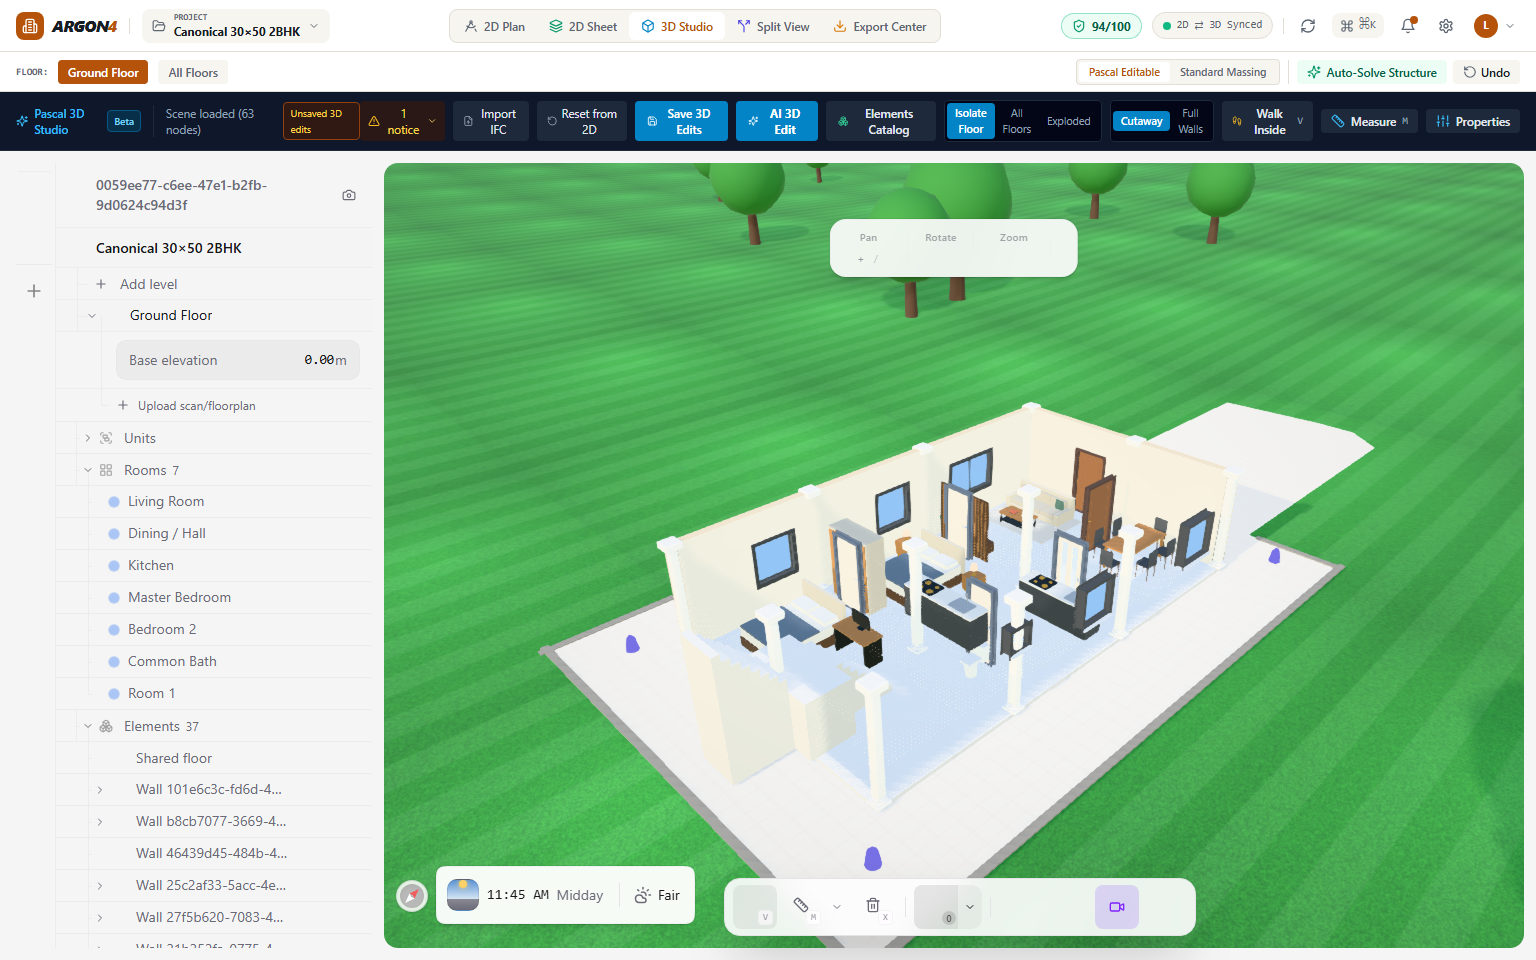
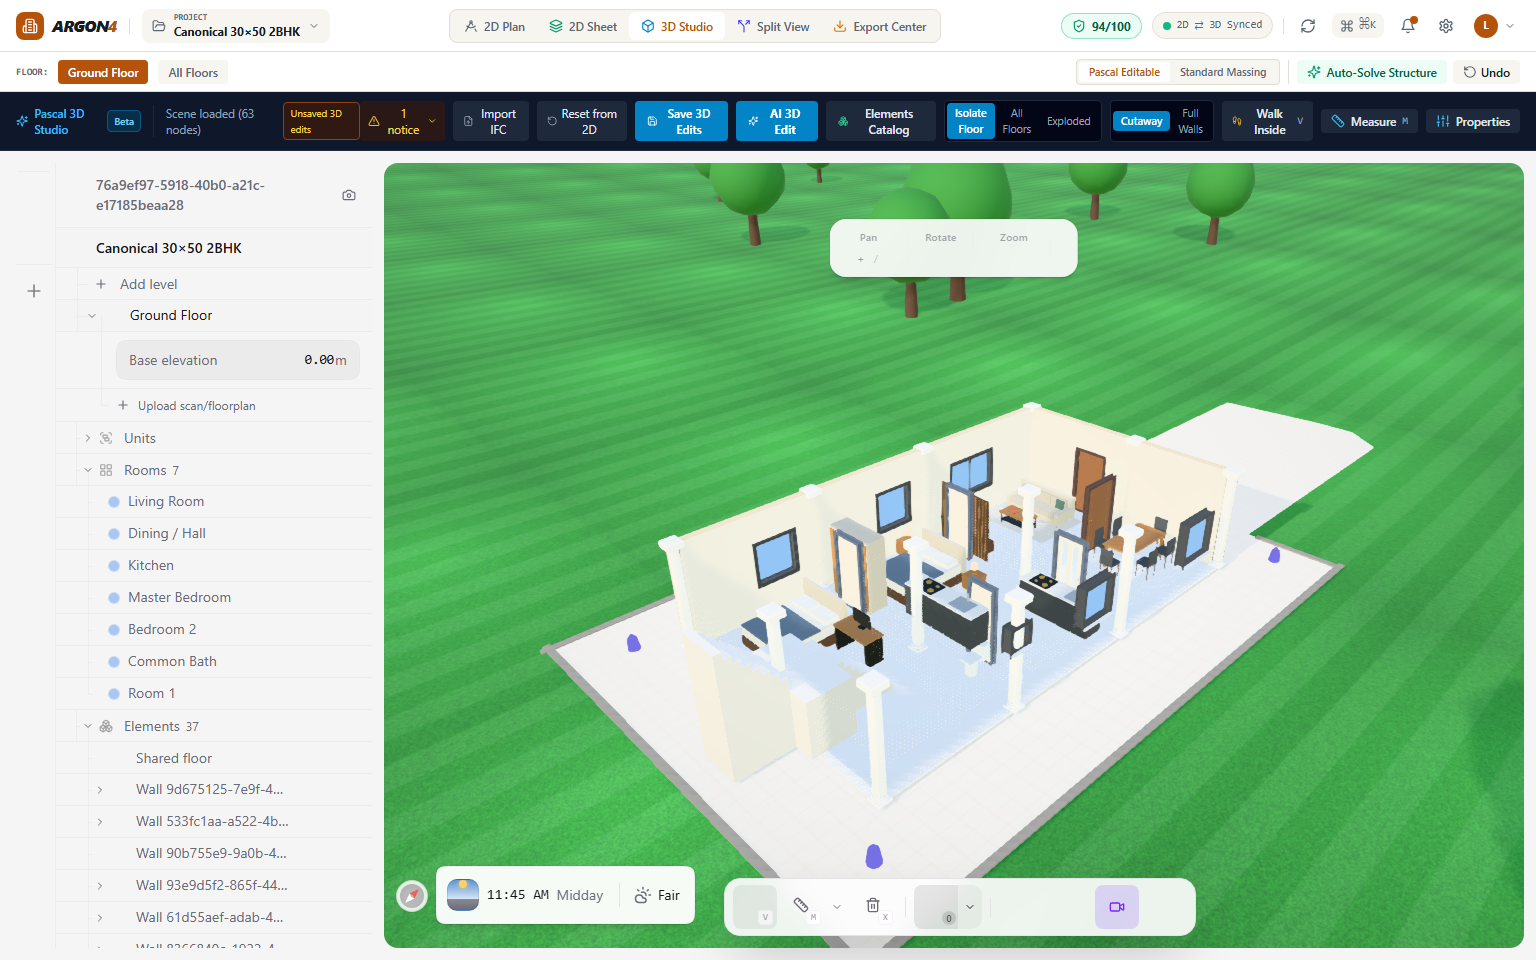
perf(stage-f): cull inactive interior partitions in stacked view (60 FPS) and restore right inspector light-mode contrast

diff --git a/packages/frontend/src/styles/studio.css b/packages/frontend/src/styles/studio.css
@@ -1863,21 +1863,78 @@
   line-height: 1.45;
 }
 
-/* Stage F: Fix cramped right inspector wrapping in CAD workspace */
+/* Stage F: Fix right inspector light-mode contrast & cramped wrapping in CAD workspace */
+.argon-shell [data-testid="property-inspector-drawer"],
 .studio-root [data-testid="property-inspector-drawer"] {
   min-width: 300px;
 }
 
+.argon-shell [data-testid="property-inspector-drawer"] .inspector-body,
+.argon-shell [data-testid="property-inspector-drawer"] .inspector-header,
 .studio-root [data-testid="property-inspector-drawer"] .inspector-body,
 .studio-root [data-testid="property-inspector-drawer"] .inspector-header {
   padding: 14px !important;
 }
 
+.argon-shell [data-testid="property-inspector-drawer"] .refinement-control {
+  background: #F8FAFC !important;
+  border: 1px solid #E2E8F0 !important;
+  border-radius: 10px;
+  padding: 14px;
+  margin-bottom: 16px;
+}
+
+.argon-shell [data-testid="property-inspector-drawer"] .refinement-control-header div span {
+  color: #0F766E !important;
+  font-weight: 800 !important;
+}
+
+.argon-shell [data-testid="property-inspector-drawer"] .refinement-control-header strong,
+.argon-shell [data-testid="property-inspector-drawer"] .inspector-title,
+.argon-shell [data-testid="property-inspector-drawer"] .inspector-section-title,
+.argon-shell [data-testid="property-inspector-drawer"] .form-label {
+  color: #0F172A !important;
+}
+
+.argon-shell [data-testid="property-inspector-drawer"] .refinement-status-grid button,
+.argon-shell [data-testid="property-inspector-drawer"] .refinement-room-picker button,
+.argon-shell [data-testid="property-inspector-drawer"] .refinement-room-actions button {
+  background-color: #FFFFFF !important;
+  color: #0F172A !important;
+  border: 1px solid #CBD5E1 !important;
+  opacity: 1 !important;
+}
+
+.argon-shell [data-testid="property-inspector-drawer"] .refinement-room-picker button.selected,
+.argon-shell [data-testid="property-inspector-drawer"] .refinement-status-grid button.active {
+  background-color: #0F766E !important;
+  color: #FFFFFF !important;
+  border-color: #0F766E !important;
+}
+
+.argon-shell [data-testid="property-inspector-drawer"] input,
+.argon-shell [data-testid="property-inspector-drawer"] select,
+.argon-shell [data-testid="property-inspector-drawer"] textarea {
+  background-color: #FFFFFF !important;
+  color: #0F172A !important;
+  -webkit-text-fill-color: #0F172A !important;
+  border: 1.5px solid #CBD5E1 !important;
+  opacity: 1 !important;
+}
+
+.argon-shell [data-testid="property-inspector-drawer"] input:disabled {
+  background-color: #F8FAFC !important;
+}
+
+.argon-shell [data-testid="property-inspector-drawer"] .refinement-control-header,
 .studio-root [data-testid="property-inspector-drawer"] .refinement-control-header {
   flex-direction: column;
   gap: 6px;
 }
 
+.argon-shell [data-testid="property-inspector-drawer"] .refinement-control-header div,
+.argon-shell [data-testid="property-inspector-drawer"] .form-group,
+.argon-shell [data-testid="property-inspector-drawer"] .inspector-section,
 .studio-root [data-testid="property-inspector-drawer"] .refinement-control-header div,
 .studio-root [data-testid="property-inspector-drawer"] .form-group,
 .studio-root [data-testid="property-inspector-drawer"] .inspector-section {
@@ -1885,6 +1942,10 @@
   width: 100%;
 }
 
+.argon-shell [data-testid="property-inspector-drawer"] .form-label,
+.argon-shell [data-testid="property-inspector-drawer"] .inspector-title,
+.argon-shell [data-testid="property-inspector-drawer"] h2,
+.argon-shell [data-testid="property-inspector-drawer"] strong,
 .studio-root [data-testid="property-inspector-drawer"] .form-label,
 .studio-root [data-testid="property-inspector-drawer"] .inspector-title,
 .studio-root [data-testid="property-inspector-drawer"] h2,

diff --git a/packages/pascal-studio/src/App.tsx b/packages/pascal-studio/src/App.tsx
@@ -243,9 +243,24 @@ export const App: React.FC = () => {
         if (mode === 'solo') {
           // Prune ALL inactive floor children in Solo mode so load mounts 1 floor (~250 nodes instead of 1,350+)
           removedIds.add(id);
-        } else if (totalItems > 45 && n.type === 'item') {
-          // In All Floors / Exploded mode keep walls, slabs, doors, windows, stairs across all floors; cull interior items
-          removedIds.add(id);
+        } else if (totalItems > 45) {
+          // In All Floors / Exploded mode on multi-story towers, cull inactive floor items AND hidden
+          // internal partition walls (and doors on internal partitions) while keeping 100% of exterior facade walls,
+          // exterior windows/doors, slabs, columns, balconies, and stairs so 5-story exteriors render smoothly!
+          if (n.type === 'item') {
+            removedIds.add(id);
+          } else if (
+            levels.length > 2 &&
+            mode === 'stacked' &&
+            n.type === 'wall' &&
+            n.metadata?.wallUse !== 'EXTERNAL' &&
+            !n.metadata?.isBalconyRailing
+          ) {
+            removedIds.add(id);
+            if (Array.isArray(n.children)) {
+              for (const childId of n.children) removedIds.add(childId);
+            }
+          }
         }
       }
 
